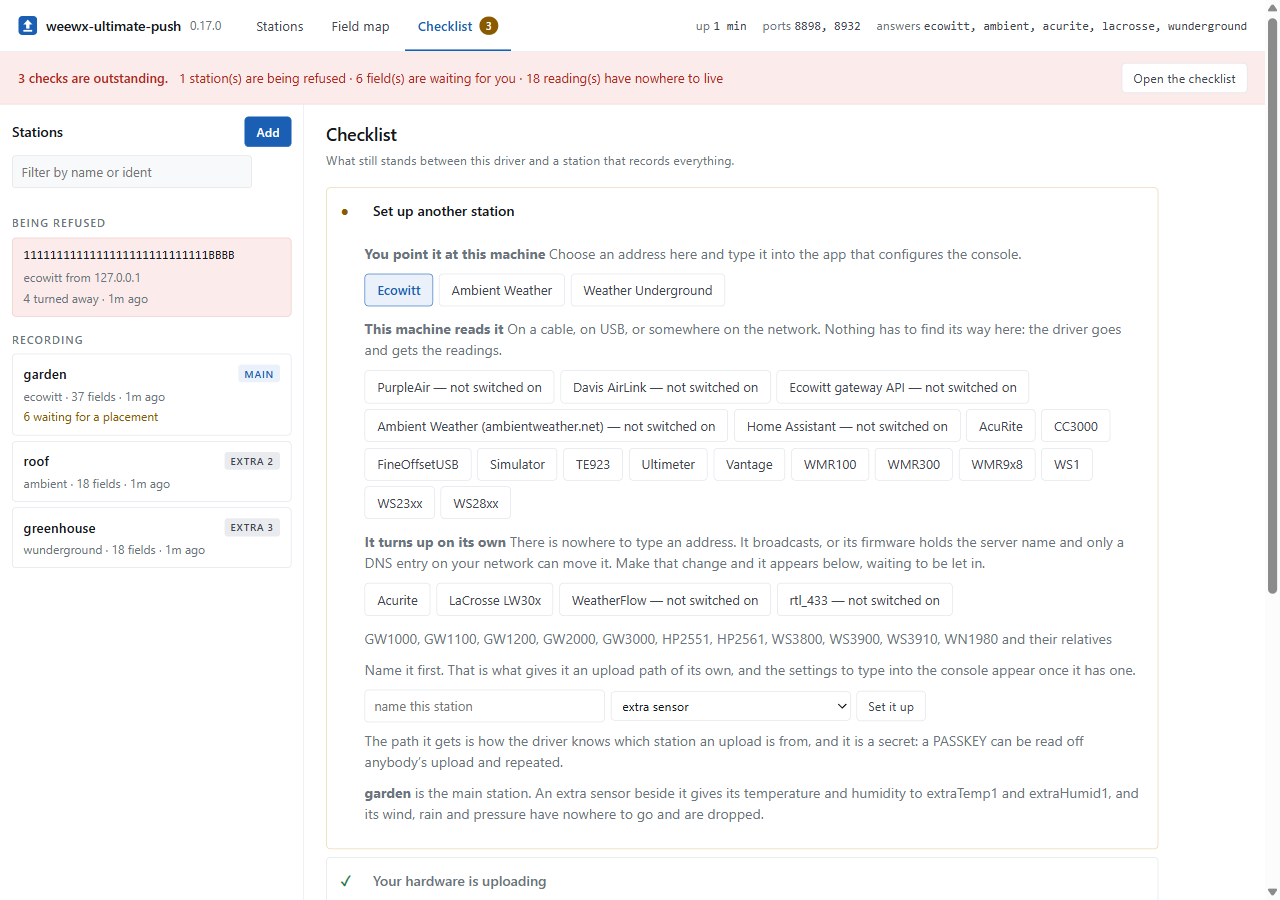
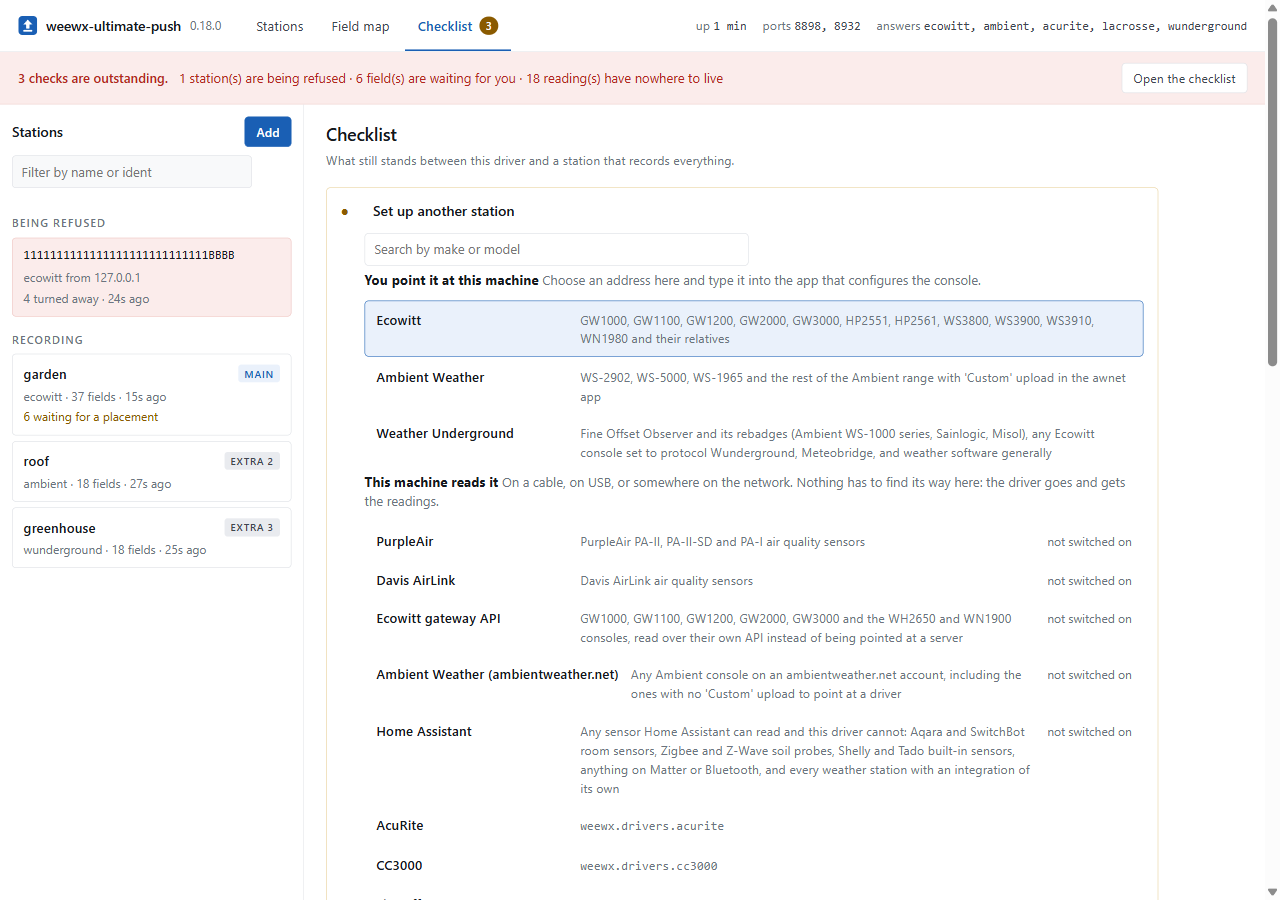
Let the hardware picker be searched, and reach its own variables
Twenty-five kinds of station as buttons carrying a name each, with the models
that name covers shown only after choosing it. Somebody holding a GW1100 has no
reason to know this driver files it under Ecowitt. Every entry carries its models
now, and the search box reads those as well as the names.

Two buttons did nothing at all, for the same reason. A var inside the click
handler declared a name the page also uses for its own state, and var is scoped
to the whole function rather than to the branch it is written in. So `picked`
and `asked` were local everywhere in the handler, and the branches that assigned
them wrote into a variable it threw away: choosing hardware never moved the
picker, and Find never went looking. A test fails now if a function declares a
name the page declares at the top level.

Taking a station out left it in the list on the left. Seven buttons change a
station, each reading back its own subset afterwards, and only one of them read
back the list that draws it. They share one function now.

diff --git a/bin/user/ultimatepush/page.py b/bin/user/ultimatepush/page.py
@@ -203,11 +203,24 @@ pre { background: var(--code); border: 1px solid var(--line); border-radius: 4px
 .step > .head.shut { cursor: pointer; user-select: none; }
 .step > .head.shut:hover .caret { color: var(--accent); }
 .step > .head .caret { color: var(--dim); width: 12px; flex: none; }
-.pick { display: flex; gap: 6px; flex-wrap: wrap; margin-bottom: 12px; }
-.pick button { background: var(--panel); color: var(--ink2); border: 1px solid var(--line);
-  border-radius: 4px; padding: 6px 12px; font: inherit; font-size: 13px; cursor: pointer; }
-.pick button.on { border-color: var(--accent); color: var(--accent); font-weight: 500;
-  background: var(--accent-soft); }
+/* Every kind of hardware this driver knows, as rows rather than pills. A pill can
+   only carry a name, so the models a name covers were shown after choosing it, which
+   is the wrong way round for somebody holding a box that says GW1100. */
+#hwfind { max-width: 24rem; margin-bottom: 4px; }
+.hwlist { display: flex; flex-direction: column; gap: 1px; margin-bottom: 4px; }
+.hw { display: flex; align-items: baseline; gap: 12px; width: 100%; text-align: left;
+  padding: 8px 11px; background: none; border: 1px solid transparent; border-radius: 4px;
+  font: inherit; color: var(--ink); cursor: pointer; }
+.hw:hover { background: var(--sink); }
+.hw.on { border-color: var(--accent); background: var(--accent-soft); }
+.hw .what { font-weight: 600; font-size: 13.5px; flex: none; min-width: 12rem; }
+.hw .kit { color: var(--dim); font-size: 12.5px; flex: 1; min-width: 0; }
+.hw .why { color: var(--dim); font-size: 12px; flex: none; white-space: nowrap; }
+.hw[disabled] { opacity: .5; cursor: not-allowed; }
+.hw[disabled]:hover { background: none; }
+.hwhead { color: var(--dim); font-size: 13px; margin: 16px 0 6px; }
+.hwhead b { color: var(--ink); font-size: 13.5px; }
+.hwhead:first-child { margin-top: 4px; }
 .settings { border-collapse: collapse; margin-bottom: 10px; }
 .settings td, .settings th { border: 0; padding: 3px 14px 3px 0; text-transform: none;
   letter-spacing: 0; font-size: 13px; }
@@ -924,14 +937,36 @@ function hardwareBody(s) {
   /* One list, whatever the hardware is. "Polled" and "uploads" is a distinction
      this driver has and its user does not: they have a weather station. What they
      do have to know is what to do next, which is what the groups say. */
-  if (!ways) { loadWays(); return '<p class="dim">Loading.</p>'; }
+  if (!ways) { loadWays(); return LOADING; }
   var one = wayFor(picked) || ways.ways[0];
   if (!one) return '<p class="dim">No hardware this driver can read.</p>';
   picked = wayKey(one);
-  return GROUPS.map(function (g) { return groupOfWays(g, one); }).join('') +
-    '<p class="dim">' + esc(one.hardware) + '</p>' +
+  /* The search box is outside the list it filters, and typing replaces only the
+     list. Redrawing the box under somebody's cursor takes the focus with it, and
+     they lose the rest of what they were typing. */
+  return '<input type="text" id="hwfind" autocomplete="off" ' +
+    'placeholder="Search by make or model" value="' + esc(hwfind) + '">' +
+    '<div class="hwlist" id="hwlist">' + hwGroups(one) + '</div>' +
     (one.kind === 'driver' ? fetchBody(one)
       : (one.how === 'fetch' ? askBody(one) : pointBody(one)));
+}
+
+function hwMatches(one) {
+  /* Over the model list as well as the name. Somebody who has a GW1100 does not know
+     that Ecowitt is what this driver calls it, and that is exactly the person the
+     search is for. */
+  if (!hwfind) return true;
+  var needle = hwfind.toLowerCase();
+  return (one.label + ' ' + (one.hardware || '')).toLowerCase()
+    .indexOf(needle) >= 0;
+}
+
+function hwGroups(chosen) {
+  var out = GROUPS.map(function (g) { return groupOfWays(g, chosen); }).join('');
+  if (out) return out;
+  return '<p class="dim" style="padding:8px 0">Nothing here matches ' +
+    '\u2018' + esc(hwfind) + '\u2019. It may be hardware this driver does not ' +
+    'read yet.</p>';
 }
 
 function wayKey(one) {
@@ -946,20 +981,25 @@ function wayFor(key) {
 }
 
 function groupOfWays(group, chosen) {
-  var mine = ways.ways.filter(function (one) { return one.how === group[0]; });
+  var mine = ways.ways.filter(function (one) {
+    return one.how === group[0] && hwMatches(one);
+  });
   if (!mine.length) return '';
-  return '<p class="dim" style="margin-top:10px"><b>' + esc(group[1]) + '</b> ' +
-    esc(group[2]) + '</p><div class="pick">' +
+  return '<p class="hwhead"><b>' + esc(group[1]) + '</b> ' + esc(group[2]) + '</p>' +
     mine.map(function (one) {
       var key = wayKey(one);
-      var why = one.problem ? ' \u2014 ' + esc(one.problem)
-        : (one.taken ? ' \u2014 already set up'
-          : (one.enabled === false ? ' \u2014 not switched on' : ''));
-      return '<button data-pick="' + esc(key) + '"' +
-        (key === wayKey(chosen) ? ' class="on"' : '') +
+      var why = one.problem ? esc(one.problem)
+        : (one.taken ? 'already set up'
+          : (one.enabled === false ? 'not switched on' : ''));
+      return '<button class="hw' + (key === wayKey(chosen) ? ' on' : '') +
+        '" data-pick="' + esc(key) + '"' +
         (one.problem || one.taken ? ' disabled' : '') + '>' +
-        esc(one.label) + why + '</button>';
-    }).join('') + '</div>';
+        '<span class="what">' + esc(one.label) + '</span>' +
+        '<span class="kit' + (one.kind === 'driver' ? ' mono' : '') + '">' +
+        esc(one.hardware || '') + '</span>' +
+        (why ? '<span class="why">' + why + '</span>' : '') +
+        '</button>';
+    }).join('');
 }
 
 function pointBody(one) {
@@ -1210,6 +1250,18 @@ function watch() {
 }
 
 /* ---------------------------------------------------------------- a station */
+
+function refresh(then) {
+  /* Everything the page draws from, in the order the parts depend on each other. The
+     station list comes first because keepOrDrop reads it to decide whether the
+     station on the right is still there, and the suggestions are dropped because who
+     holds which column can have changed. */
+  candidates = null;
+  return loadStations().then(loadState).then(loadSetup).then(function () {
+    draw();
+    if (then) then();
+  });
+}
 
 function choose(ident) {
   chosen = ident;
@@ -1724,10 +1776,7 @@ function createStation(body) {
       ? 'Set up as the main station. Put the path below into the console.'
       : 'Set up as an extra sensor on channel ' + r.station.channel +
         '. Put the path below into the console.');
-    candidates = null;
-    loadState();
-    loadStations();
-    loadSetup(function () { draw(); });
+    refresh();
   });
 }
 
@@ -1737,9 +1786,7 @@ function saveStation(ident, body) {
     flash(r.ok ? 'Changed. It takes effect on the next upload.' : r.message, !r.ok);
     if (!r.ok) return;
     editing = null;
-    candidates = null;
-    loadState();
-    loadSetup(function () { draw(); });
+    refresh();
   });
 }
 
@@ -1749,6 +1796,9 @@ function saveStation(ident, body) {
    asking again for a list that has not changed would empty the fields somebody is
    typing a serial port into. */
 var ways = null;
+/* What has been typed into the hardware search. Held here rather than read off the
+   input, because choosing something redraws the whole form around it. */
+var hwfind = '';
 /* What is in the form now, and what its fields are, so that changing an option
    others depend on can rebuild it without losing what has been typed. */
 var formValues = null, formFields = null;
@@ -1859,11 +1909,7 @@ function hostedThen(d) {
   formValues = null;
   typedBy = {};
   loadWays();
-  loadSetup();
-  /* Not just a redraw: 'not mine' and 'move it here' take an identity out of the
-     overview, and the page is about whichever one is picked. Reading the overview
-     first is what lets keepOrDrop see that the picked one has gone. */
-  loadStations().then(loadState).then(draw);
+  refresh();
 }
 
 /* ---------------------------------------------------------------- events */
@@ -1890,12 +1936,12 @@ document.addEventListener('click', function (e) {
        looked up by identity: an identity is whatever the hardware says it is, and
        a selector built out of one would break on the first sensor with a quote in
        its model name. */
-    var picked = t.previousElementSibling;
-    if (!picked || !picked.value) {
+    var moving = t.previousElementSibling;
+    if (!moving || !moving.value) {
       flash('Choose which station moved onto this id.', true);
       return;
     }
-    api('rebind', { was: picked.value, now: t.dataset.moved }).then(hostedThen);
+    api('rebind', { was: moving.value, now: t.dataset.moved }).then(hostedThen);
     return;
   }
   if (t.dataset.askfind) {
@@ -1970,8 +2016,11 @@ document.addEventListener('click', function (e) {
          'the block for weewx.conf');
     return;
   }
-  if (t.dataset.pick) {
-    picked = t.dataset.pick;
+  var hw = t.closest ? t.closest('[data-pick]') : null;
+  if (hw) {
+    /* Taken from whatever inside the row was clicked, so that the model list opens
+       it too rather than only the name. */
+    picked = hw.dataset.pick;
     // A different driver is a different form.
     formValues = null;
     typedBy = {};
@@ -2001,8 +2050,7 @@ document.addEventListener('click', function (e) {
     api('role', { ident: t.dataset.ident || chosen, role: t.dataset.role })
       .then(function (r) {
       flash(r.ok ? 'Changed. It takes effect on the next upload.' : r.message, !r.ok);
-      candidates = null;
-      if (r.ok) { loadState(); loadSetup(); draw(); }
+      if (r.ok) refresh();
     });
     return;
   }
@@ -2033,14 +2081,14 @@ document.addEventListener('click', function (e) {
   }
   if (t.id === 'noconfirm') { pending = null; draw(); return; }
   if (t.id === 'doconfirm') {
-    var asked = pending;
+    var agreed = pending;
     pending = null;
-    if (asked.what === 'create') {
-      createStation({ protocol: asked.protocol, name: asked.name, role: asked.role,
-                      force: true });
+    if (agreed.what === 'create') {
+      createStation({ protocol: agreed.protocol, name: agreed.name,
+                      role: agreed.role, force: true });
     } else {
-      saveStation(asked.ident, { name: asked.name, role: asked.role,
-                                 channel: asked.channel, force: true });
+      saveStation(agreed.ident, { name: agreed.name, role: agreed.role,
+                                  channel: agreed.channel, force: true });
     }
     return;
   }
@@ -2074,7 +2122,7 @@ document.addEventListener('click', function (e) {
         'one is turned away from it. What is already in the archive stays.')) return;
     api('release', { ident: owner }).then(function (r) {
       flash(r.message, !r.ok);
-      if (r.ok) { candidates = null; loadState(); loadSetup(function () { draw(); }); }
+      if (r.ok) refresh();
     });
     return;
   }
@@ -2088,9 +2136,7 @@ document.addEventListener('click', function (e) {
       flash(r.ok ? 'Taken out.' : r.message, !r.ok);
       if (!r.ok) return;
       editing = null;
-      candidates = null;
-      loadState();
-      loadSetup(function () { draw(); });
+      refresh();
     });
     return;
   }
@@ -2113,7 +2159,7 @@ document.addEventListener('click', function (e) {
     api('accept', { ident: t.dataset.accept, name: input ? input.value : '' })
       .then(function (r) {
         flash(r.ok ? 'Let in. It records from its next upload.' : r.message, !r.ok);
-        if (r.ok) { loadState(); loadSetup(function () { draw(); }); }
+        if (r.ok) refresh();
       });
     return;
   }
@@ -2166,9 +2212,17 @@ function placeField(ident, raw, field, force) {
 }
 
 document.addEventListener('input', function (e) {
-  if (e.target.id !== 'find') return;
-  finding = e.target.value.trim();
-  drawSidebar();
+  if (e.target.id === 'find') {
+    finding = e.target.value.trim();
+    drawSidebar();
+    return;
+  }
+  if (e.target.id === 'hwfind') {
+    hwfind = e.target.value.trim();
+    var list = document.getElementById('hwlist');
+    // Only the list, so that the cursor stays where it is being typed.
+    if (list && ways) list.innerHTML = hwGroups(wayFor(picked) || ways.ways[0]);
+  }
 });
 
 document.addEventListener('change', function (e) {

diff --git a/tests/test_web.py b/tests/test_web.py
@@ -823,6 +823,75 @@ def test_the_page_declares_everything_it_writes_to():
     )
 
 
+def _shadowing_a_global(script):
+    """Names declared at the top level and declared again inside a function.
+
+    `var` is scoped to the whole function, not to the block it is written in, and it
+    is hoisted to the top of that function. So one `var x` anywhere inside a function
+    makes every mention of x in the whole of it local, including the ones written
+    before it and the ones meant for the global of the same name.
+
+    That shipped twice, both in the click handler, which is one function holding every
+    branch of the page. `var picked = t.previousElementSibling` in the branch for a
+    sensor that changed its id made the branch that chooses hardware write into a
+    variable the handler threw away, so the picker was stuck on whichever entry came
+    first. `var asked = pending` in the branch that confirms a change did the same to
+    the form that asks a source what it can see, so Find did nothing at all.
+
+    Neither shows up as a missing declaration, because both names are declared twice.
+    Nothing else here would have caught it: every test asks the driver for its
+    answers, and the driver's answers were right both times.
+
+    Args:
+        script (str): The page's script.
+
+    Returns:
+        set[str]: The names, empty when no function redeclares a global.
+    """
+    without_comments = re.sub(r'/\*.*?\*/', '', script, flags=re.S)
+    globals_here = set()
+    for line in without_comments.split(NEWLINE):
+        # A declaration in the first column is the page's own state. Anything
+        # indented is inside something.
+        if not line.startswith('var '):
+            continue
+        for part in line[len('var ') :].split(','):
+            name = part.split('=')[0].strip().rstrip(';')
+            if re.match(r'^[A-Za-z_$][\w$]*$', name):
+                globals_here.add(name)
+    inner = set(
+        re.findall(r'^[ 	]+var\s+([A-Za-z_$][\w$]*)', without_comments, flags=re.M)
+    )
+    return inner & globals_here
+
+
+def test_no_function_redeclares_one_of_the_pages_variables():
+    """See _shadowing_a_global. Two buttons did nothing for a release each."""
+    from ultimatepush import page
+
+    script = page.PAGE.split('<script>')[1].split('</script>')[0]
+    shadowed = _shadowing_a_global(script)
+
+    assert not shadowed, (
+        "a function declares %s, which the page also declares at the top level. Under "
+        "var's function scoping that makes the name local to the whole of that "
+        "function, so whatever it writes there never reaches the page's own copy."
+        % ', '.join(sorted(shadowed))
+    )
+
+
+def test_the_shadowing_check_would_notice():
+    """Because a check that cannot fail is not a check."""
+    page_var = "var picked = null;" + NEWLINE
+    assert _shadowing_a_global(page_var + "  var picked = x;") == {'picked'}
+    # A local whose name the page does not use is nobody's problem.
+    assert _shadowing_a_global(page_var + "  var moving = x;") == set()
+    # Nor is a second top-level declaration, which is not what this is about.
+    assert _shadowing_a_global(page_var + "var other = 1;") == set()
+    # A blank line before a top-level declaration is not an indent.
+    assert _shadowing_a_global(page_var + NEWLINE + "var picked = 1;") == set()
+
+
 def test_the_page_is_javascript_a_browser_can_parse():
     """A newline escape written with one backslash in the Python source reaches the
     page as a real newline. Inside a JavaScript string literal that is a syntax error,

diff --git a/docs/Web-interface.md b/docs/Web-interface.md
@@ -122,6 +122,10 @@ console that appears a year later puts its step back at the top.
 **Add** above the station list opens the form here. One form for every kind of station,
 grouped by what you have to do: point the console at this machine, let this machine read
 a driver, or change something on the network and wait for the station to turn up.
+
+Each entry names the models it covers, and the search box reads those as well as the
+names. Somebody holding a GW1100 does not have to know that this driver calls it
+Ecowitt.
 Selecting a role is part of that form: the first station is the main station, and every
 station after it is offered as an extra sensor. See [Stations](Stations.md) and
 [Hosted hardware](Hosted-hardware.md).

diff --git a/docs/Hosted-hardware.md b/docs/Hosted-hardware.md
@@ -20,8 +20,8 @@ How it is put together is in [Architecture](Architecture.md#hosted-drivers).
 ## Adding one in the web interface
 
 Setting up a wired station is the same flow as setting up any other: **Add**, above
-the station list. The list there is every kind of station, in three groups by what
-you have to do:
+the station list. The list there is every kind of station, searchable by make or
+model, in three groups by what you have to do:
 
 - **You point it at this machine** — Ecowitt, Ambient and Weather Underground consoles.
   You type an address into the app that configures the console.
